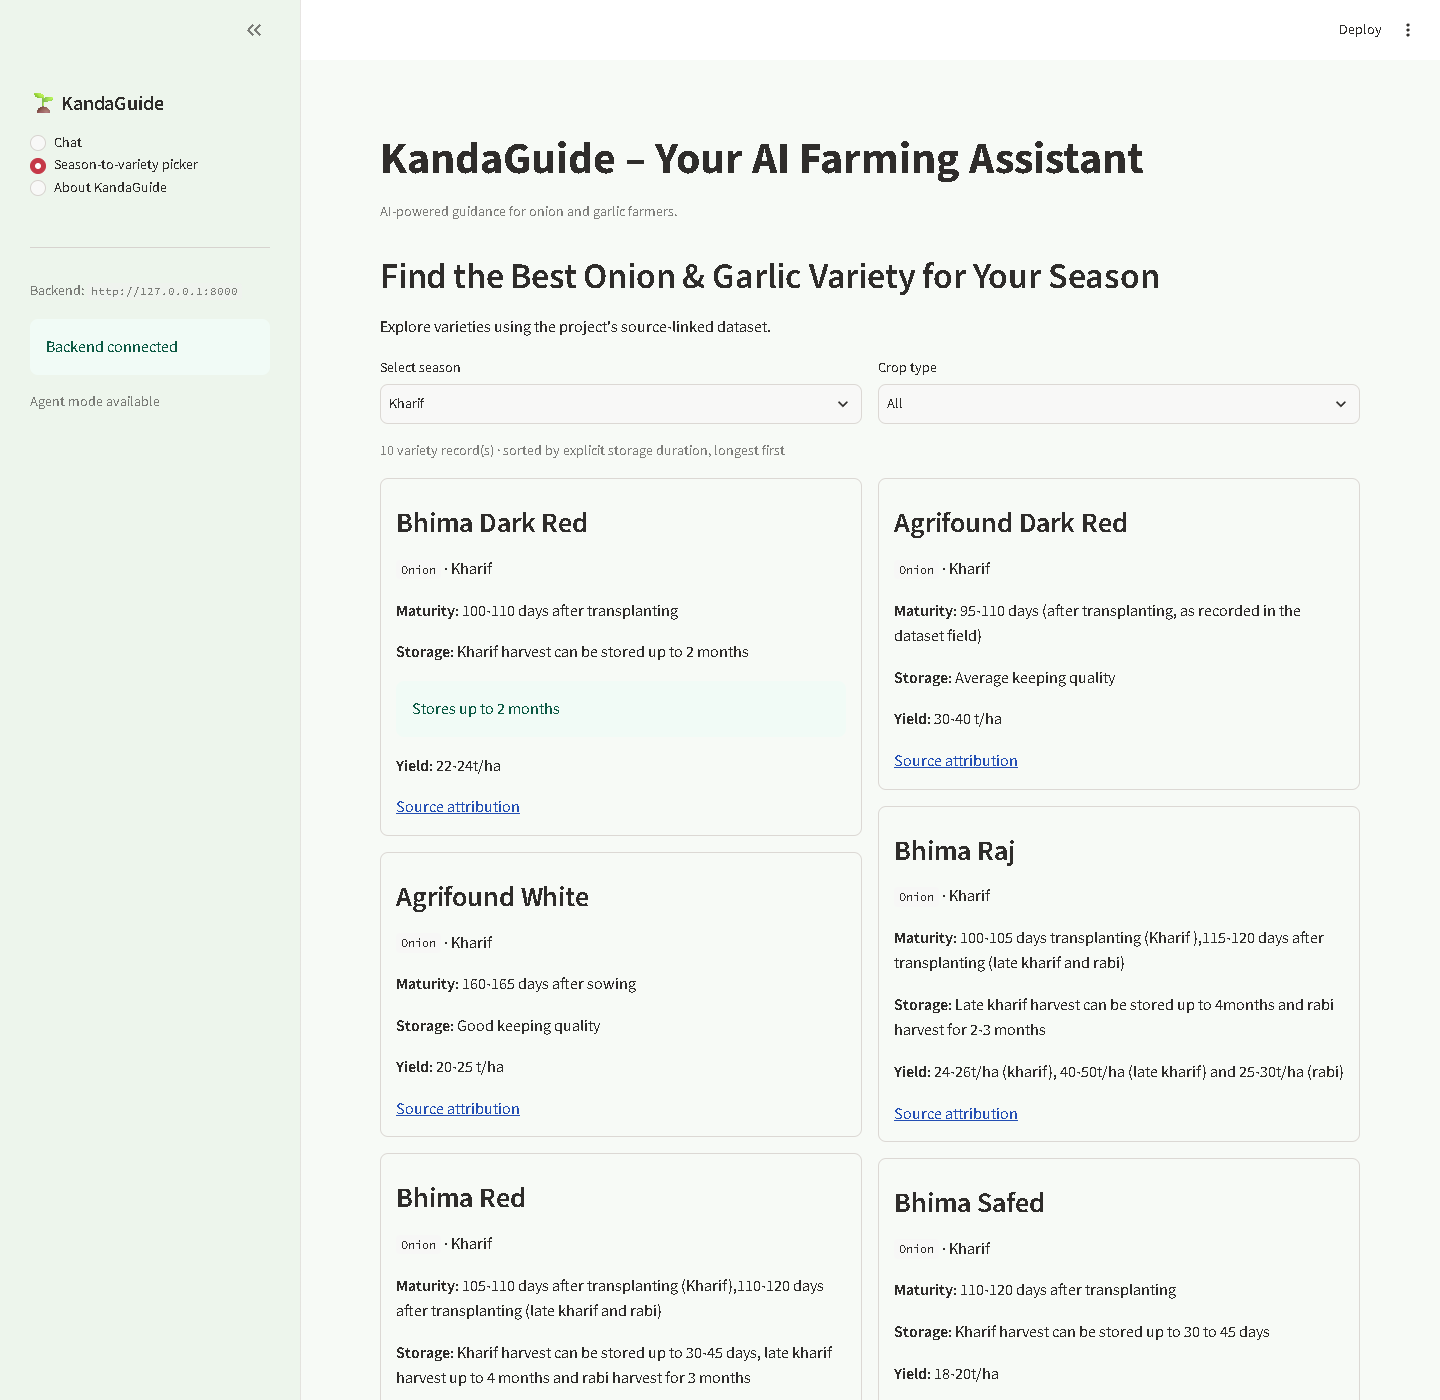
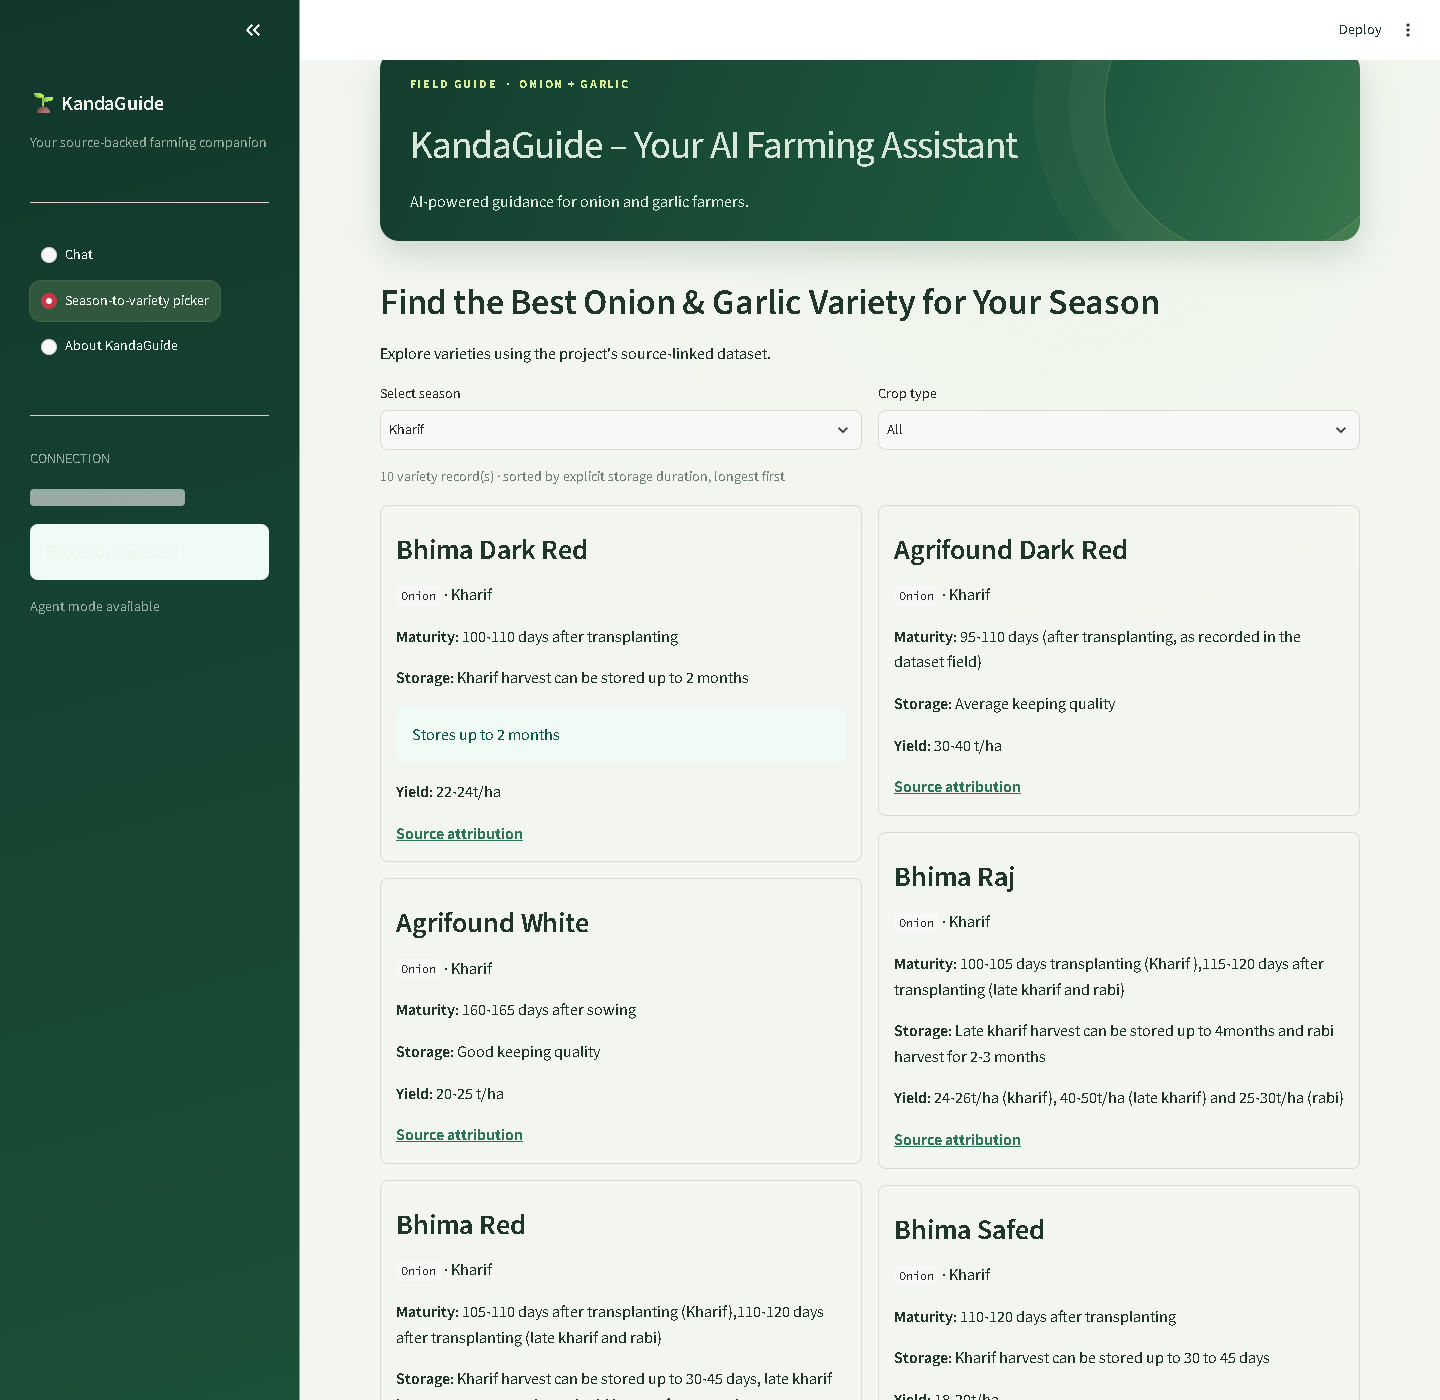
Refresh KandaGuide Streamlit visual design

diff --git a/ui/app.py b/ui/app.py
@@ -359,18 +359,111 @@ def chat_page(agent_available: bool) -> None:
 def main() -> None:
     st.set_page_config(page_title="KandaGuide – Your AI Farming Assistant", page_icon="🌱", layout="wide")
     st.markdown("""<style>
-    .stApp { background: #f7faf6; }
-    [data-testid="stSidebar"] { background: #edf5ec; }
-    h1, h2, h3 { color: #205c39; }
-    div[data-testid="stMetric"] { background: white; border-radius: 12px; padding: 14px; }
+    :root {
+      --forest: #143d2e;
+      --leaf: #2f7654;
+      --lime: #d8ed9b;
+      --ink: #20362b;
+      --muted: #68766d;
+      --paper: #f3f6f0;
+      --line: #e1e8df;
+    }
+    .stApp {
+      background: radial-gradient(ellipse at 75% 0%, #edf5e8 0, transparent 34%), var(--paper);
+      color: var(--ink);
+    }
+    [data-testid="stMainBlockContainer"] { max-width: 1240px; padding-top: 2.1rem; }
+    [data-testid="stSidebar"] {
+      background: linear-gradient(165deg, #12382b 0%, #174633 60%, #1b5039 100%);
+      border-right: 1px solid rgba(255,255,255,.08);
+    }
+    [data-testid="stSidebar"] * { color: #edf5ed; }
+    [data-testid="stSidebar"] [data-testid="stRadio"] > div { gap: .35rem; }
+    [data-testid="stSidebar"] [role="radiogroup"] label {
+      padding: .55rem .7rem; border-radius: .7rem; transition: background .15s ease;
+    }
+    [data-testid="stSidebar"] [role="radiogroup"] label:hover { background: rgba(255,255,255,.08); }
+    [data-testid="stSidebar"] [role="radiogroup"] label:has(input:checked) {
+      background: rgba(216,237,155,.15); outline: 1px solid rgba(216,237,155,.22);
+    }
+    [data-testid="stSidebar"] input[type="radio"] { accent-color: var(--lime); }
+    [data-testid="stSidebar"] [data-testid="stAlert"] {
+      background: #e5f1de !important; border-color: #c8dfb4 !important;
+    }
+    [data-testid="stSidebar"] [data-testid="stAlert"] * { color: #214d35 !important; }
+    h1, h2, h3 { color: var(--forest); letter-spacing: -.025em; }
+    h2 { margin-top: .4rem; }
+    a { color: var(--leaf) !important; font-weight: 650; }
+    [data-testid="stVerticalBlockBorderWrapper"] {
+      background: rgba(255,255,255,.88); border: 1px solid var(--line) !important;
+      border-radius: 1rem !important; box-shadow: 0 8px 24px rgba(23,55,37,.055);
+      transition: transform .16s ease, box-shadow .16s ease;
+    }
+    [data-testid="stVerticalBlockBorderWrapper"]:hover {
+      transform: translateY(-2px); box-shadow: 0 12px 28px rgba(23,55,37,.09);
+    }
+    [data-testid="stVerticalBlockBorderWrapper"] h3 { margin-bottom: .25rem; }
+    [data-testid="stVerticalBlockBorderWrapper"] [data-testid="stAlert"] {
+      border: 1px solid #dbe9c2; border-radius: .75rem;
+    }
+    [data-testid="stChatMessage"] {
+      background: rgba(255,255,255,.84); border: 1px solid var(--line);
+      border-radius: 1rem; padding: 1rem 1.1rem; margin-bottom: .7rem;
+    }
+    [data-testid="stChatMessage"]:has([data-testid="chatAvatarIcon-assistant"]) {
+      background: #fff; border-left: 3px solid #80a96c;
+    }
+    [data-testid="stChatInput"] textarea,
+    [data-testid="stTextInput"] input,
+    [data-testid="stSelectbox"] [data-baseweb="select"] > div {
+      border-radius: .7rem;
+    }
+    [data-testid="stChatInput"] textarea:focus,
+    [data-testid="stTextInput"] input:focus { border-color: #6d9b6e; }
+    [data-testid="stButton"] button, [data-testid="stFormSubmitButton"] button {
+      border-radius: .7rem; font-weight: 650; transition: transform .12s ease, box-shadow .12s ease;
+    }
+    [data-testid="stButton"] button:hover, [data-testid="stFormSubmitButton"] button:hover {
+      transform: translateY(-1px); box-shadow: 0 5px 14px rgba(22,67,43,.12);
+      border-color: #7ea47c;
+    }
+    .brand-hero {
+      position: relative; overflow: hidden; margin: 0 0 1.55rem; padding: 1.6rem 1.85rem;
+      color: #f4f8f1; border-radius: 1.2rem;
+      background: linear-gradient(112deg, #143d2e 0%, #1e5a40 72%, #39754b 100%);
+      box-shadow: 0 14px 32px rgba(24,65,43,.16);
+    }
+    .brand-hero:after {
+      content: ""; position: absolute; right: -3rem; top: -6rem; width: 19rem; height: 19rem;
+      border: 1px solid rgba(216,237,155,.2); border-radius: 50%;
+      box-shadow: 0 0 0 2.2rem rgba(216,237,155,.045), 0 0 0 4.4rem rgba(216,237,155,.035);
+      pointer-events: none;
+    }
+    .brand-kicker { color: var(--lime); font-size: .72rem; font-weight: 750; letter-spacing: .16em; }
+    .brand-hero h1 { color: white; margin: .55rem 0 .25rem; font-size: clamp(1.8rem, 3vw, 2.45rem); }
+    .brand-hero h1 span { color: #d8e8d8; font-weight: 450; }
+    .brand-hero p { color: #d9e8dd; margin: 0; font-size: 1rem; }
+    .section-kicker { color: var(--leaf); font-size: .72rem; font-weight: 750; letter-spacing: .13em; margin: .2rem 0 .35rem; }
+    .section-intro { color: var(--muted); margin: -.25rem 0 1rem; }
+    @media (max-width: 760px) {
+      [data-testid="stMainBlockContainer"] { padding: 1rem .8rem 2rem; }
+      .brand-hero { padding: 1.3rem; }
+      .brand-hero h1 span { display: block; }
+    }
     </style>""", unsafe_allow_html=True)
-    st.title("KandaGuide – Your AI Farming Assistant")
-    st.caption("AI-powered guidance for onion and garlic farmers.")
+    st.markdown("""<div class="brand-hero">
+      <div class="brand-kicker">FIELD GUIDE &nbsp;·&nbsp; ONION + GARLIC</div>
+      <h1>KandaGuide <span>&ndash; Your AI Farming Assistant</span></h1>
+      <p>AI-powered guidance for onion and garlic farmers.</p>
+    </div>""", unsafe_allow_html=True)
     with st.sidebar:
         st.markdown("## 🌱 KandaGuide")
+        st.caption("Your source-backed farming companion")
+        st.divider()
         page = st.radio("Navigation", ("Chat", "Season-to-variety picker", "About KandaGuide"), label_visibility="collapsed")
         st.divider()
-        st.caption(f"Backend: `{API_BASE_URL}`")
+        st.caption("CONNECTION")
+        st.caption(f"`{API_BASE_URL}`")
         with st.spinner("Checking backend…"):
             healthy, agent_available, detail = check_backend()
         if healthy:
